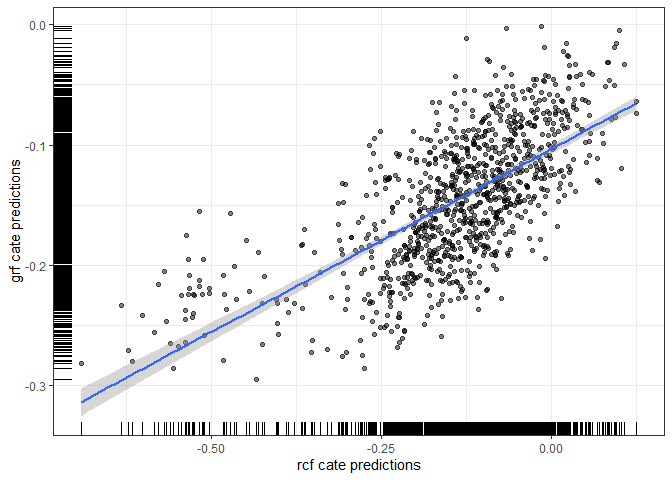
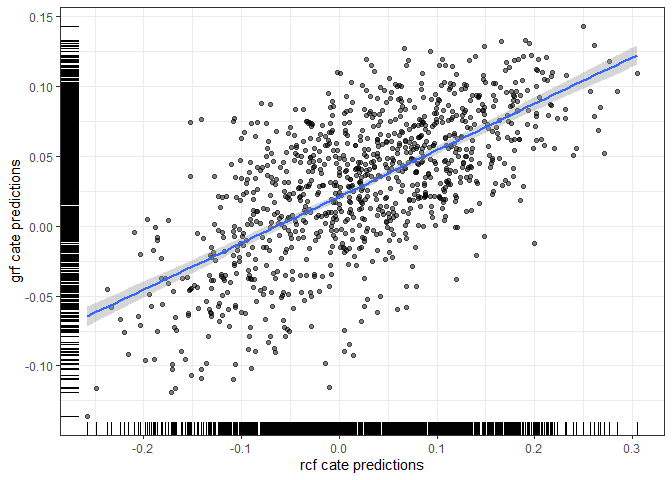
updated readme

diff --git a/README.md b/README.md
@@ -81,16 +81,16 @@ estimates
 
 | obs\_id |        cate |
 | ------: | ----------: |
-|       1 | \-0.0827852 |
-|       2 | \-0.0289814 |
-|       3 | \-0.1975044 |
-|       4 | \-0.0298881 |
-|       5 | \-0.1662569 |
-|       6 | \-0.0092666 |
-|       7 | \-0.1159173 |
-|       8 | \-0.1006691 |
-|       9 | \-0.0066353 |
-|      10 | \-0.0718797 |
+|       1 | \-0.0009221 |
+|       2 |   0.0590870 |
+|       3 | \-0.1005876 |
+|       4 |   0.0488912 |
+|       5 |   0.1113876 |
+|       6 | \-0.0038168 |
+|       7 | \-0.0524650 |
+|       8 |   0.0207999 |
+|       9 |   0.0194950 |
+|      10 | \-0.1172211 |
 
 variable\_importance generates a data.frame of variable importance
 metrics
@@ -101,15 +101,15 @@ var_importance <- rcf::variable_importance(cf = cf, covariates = vars, n = 4, d 
 
 | variable | importance         |
 | :------- | :----------------- |
-| V6       | 0.287385365853659  |
-| V1       | 0.124146341463415  |
-| V4       | 0.104614634146341  |
-| V2       | 0.0988             |
-| V9       | 0.0943219512195122 |
-| V5       | 0.0861951219512195 |
-| V3       | 0.0820292682926829 |
-| V7       | 0.0703121951219512 |
-| V8       | 0.0521951219512195 |
+| V9       | 0.164692682926829  |
+| V1       | 0.148521951219512  |
+| V8       | 0.132717073170732  |
+| V2       | 0.124941463414634  |
+| V5       | 0.108941463414634  |
+| V3       | 0.103214634146341  |
+| V6       | 0.0763365853658537 |
+| V7       | 0.0759219512195122 |
+| V4       | 0.0647121951219512 |
 
 The cate predictions generated by rcf match those of grf relatively
 well.
@@ -134,11 +134,7 @@ explicitly optimizing on treatment effect heterogeneity. This is
 achieved by recursively splitting a sample such as to maximize the
 following quantity of interest:
 
-<center>
-
 ![](man/figures/eq_1.png)
-
-</center>
 
 Mean squared difference in treatment effects 𝜏 across sub-samples
 created by a set of all possible partitions of a sample 𝑃 minus the sum
@@ -185,8 +181,4 @@ parameter 𝛼.
 Variable Importance is computed as a weighted sum of how often a
 variable was split at depth k within a tree.
 
-<center>
-
 ![](man/figures/eq_2.png)
-
-</center>
